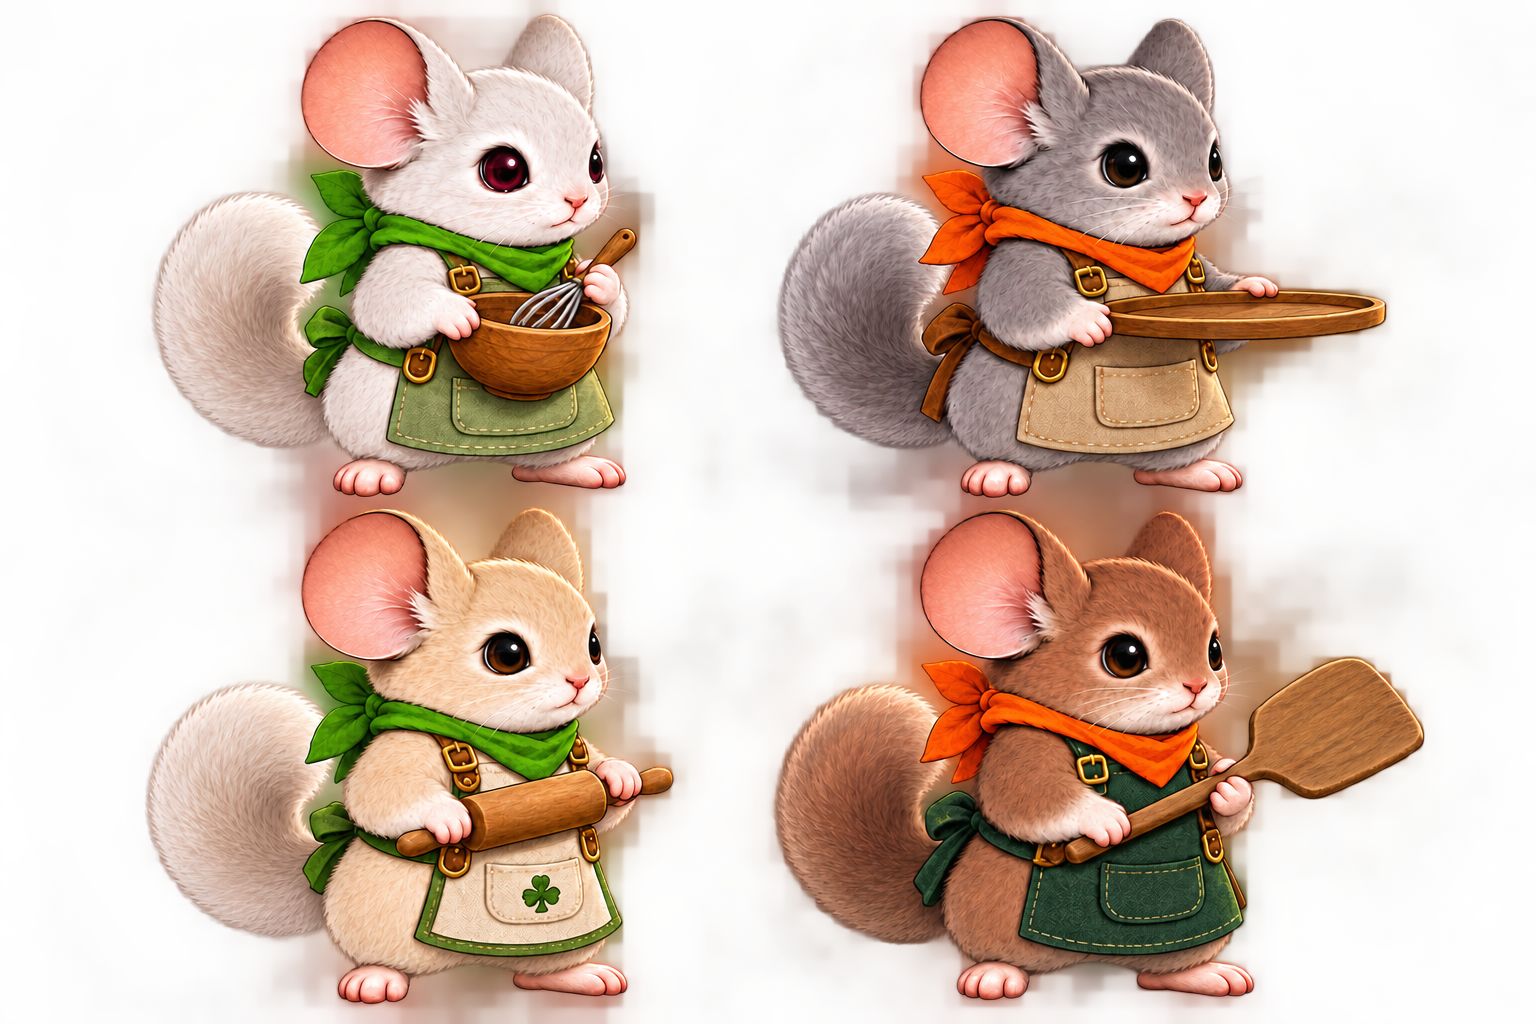
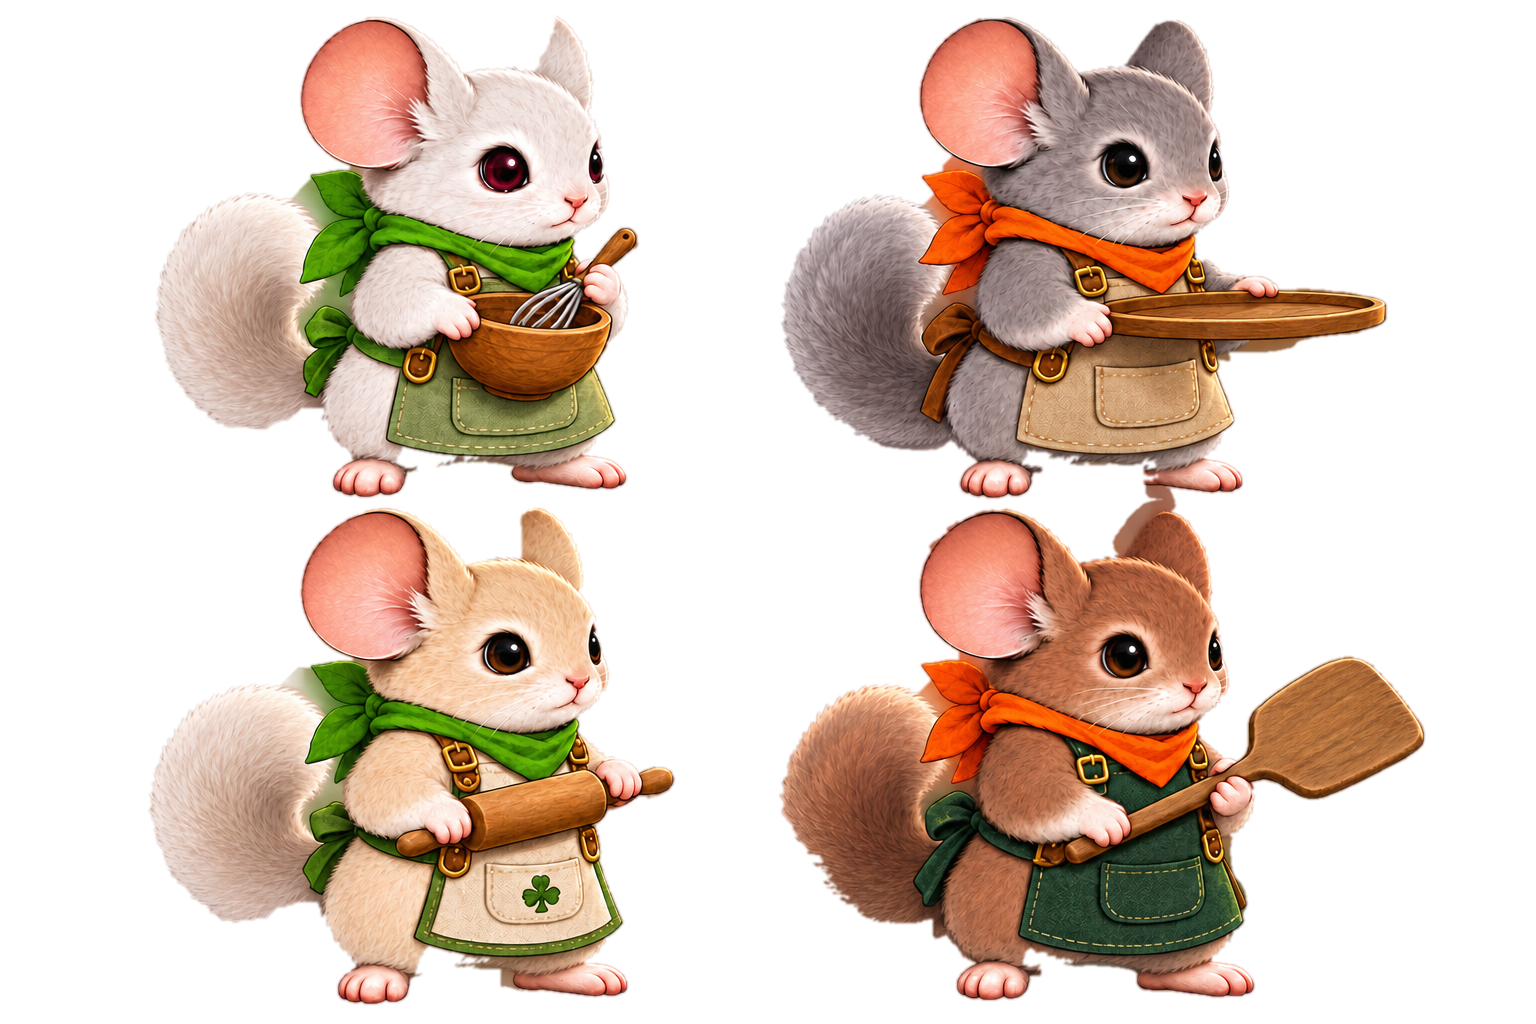
Cut the Midnight Kitchen chefs out of their background glow
The chef sheet carried a half-transparent haze and an opaque warm glow
around each figure, which the drop shadow turned into pale boxes. Each
chef is re-cut with GrabCut, keeping eyes and outlines, so the four
stand directly in the kitchen on the title screen and in the crew bar.

diff --git a/HANDOFF.md b/HANDOFF.md
@@ -97,7 +97,8 @@ Game 33, `/kitchen` (**Ember & Clover: Midnight Kitchen**), is merged on main (P
 
 - **Code:** `lib/kitchen-game.ts` holds the rules; there is no `lib/kitchen-scene.ts`, so all the drawing lives in `app/kitchen/page.tsx` (about 700 lines), unlike the engine / scene / page split the other games follow. Saves are `midnight-kitchen-v1`, written between shifts.
 - **Checks:** `npm run test:kitchen` (in `npm test`, with 240 simulated campaigns) and `tests/e2e/kitchen.mjs`. Both passed on 15-10-2026, as did `arcade-navigation` with 33 cards.
-- **Not done:** on the title screen each painted chef sits in a pale rectangle where the sheet's background was not fully cut away. Nobody has played it by hand; there is no bot.
+- **Chef art:** `public/art/kitchen/chefs.png` was re-cut on 15-10-2026. The sheet came with a half-transparent haze and a nearly opaque warm glow around each chef, which the `.k-art` drop shadow turned into pale boxes. Each crop was separated with OpenCV GrabCut (faint pixels as background, the eroded solid body as foreground, the glow band left to the colour model), dark solid pixels next to the figure put back (GrabCut took an eye for background) and holes filled; the scratch script was `tests/e2e/.tmp/grab.py`. Repaint the sheet with a clean transparent background rather than re-cutting it again.
+- **Not done:** nobody has played it by hand; there is no bot.
 
 ## Whisker Saga · 13-10-2026
 

diff --git a/CHANGELOG.md b/CHANGELOG.md
@@ -16,6 +16,7 @@ Notable changes to Dora & Enzo's Arcade, newest first. Every push to `main` depl
 
 - **Whisker Saga**: after a first clear, going back to the map now selects the stage that just opened instead of the one you beat, so "Fight" moves you on rather than replaying. Replays still keep their stage selected.
 - **Whisker Saga**: the batch summon button no longer reads "Summon 2" when you have no scrolls.
+- **Ember & Clover: Midnight Kitchen**: the four painted chefs no longer stand in pale boxes; the leftover background glow around each one has been cut away.
 
 ### Documentation
 
